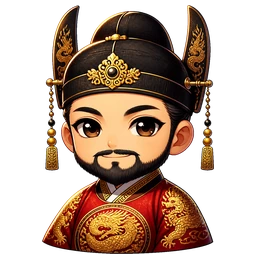
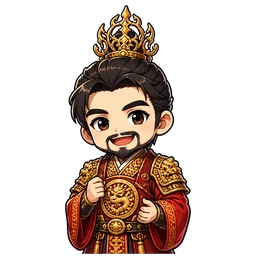
v6.6a 초상 17장 화풍 통일 재제작 (?v=139)

diff --git a/sw.js b/sw.js
@@ -57,6 +57,7 @@
    v6.5 — 등록 쿼리를 ?v=136로 올렸다(도감 상세에서 생년월일·나이·등장연도 줄을 걷어 내고 주둔 성만 남김, 비밀모드 장수 편집기가 원정 화면(z=9000) 위에서 열리도록 관리자 버튼·패널 z-index를 9500·9600으로, 모달·비용·안내 문구 한글 단어 중간 줄바꿈 제거(keep-all), 전투 결산 합계를 표 안 <tfoot>으로 옮겨 열 정렬, v6.4d HUD 수치 폰트 9.5~10px·아군·적군 숫자 사이 금빛 구분선·배속 버튼 터치 영역 확대, 그리고 고증·오류 초상 8명(알천 남성 연결, 무령왕·연남생·조충·올돌골·온조왕·세종대왕·설총 재제작) 256×256 투명 WebP 교체. 내용·밸런스·세이브는 그대로, 캐시 없음).
    v6.5a — 등록 쿼리를 ?v=137로 올렸다(한국 S급 30명 확정 — 도감 '한국' S급을 고구려6·백제4·신라6·고려6·조선5·근대3의 30명으로 고정하고(그동안 백분위 재산정으로 29명으로 흔들렸고 을파소·황희·이황·원효·황진이가 S, 문무왕·장보고·무령왕이 A로 뒤섞였음), S에서 내려온 20명(대무신왕·명림답부·성왕·흑치상지·이사부·김수로·설총·고선지·서희·양규·정몽주·장영실·김종서·권율·곽재우·김시민·정약용·임경업·김응하·홍범도)을 A급으로 내리고 5스탯 합을 중원 A급 수준(340~375)으로 정리, 척준경은 S급 여포급 무력 100으로, 남은 29명도 합 385~410 선으로 다듬어 중원 S급(오 401·위 373·촉 369)과 균형을 맞춤. 중원·군웅 장수 스탯과 세이브는 그대로, 캐시 없음).
    v6.6 — 등록 쿼리를 ?v=138로 올렸다(한국 삼국 왕 10명 초상 고증 수정 — 광개토대왕·근초고왕·김수로·장수왕·진흥왕·문무왕·의자왕의 중국 구슬 면류관·깃털 추장 머리장식을 고구려 절풍·백제 금제 관식·신라·가야 금관과 왕복으로 다시 그리고, 병과 공용 얼굴이던 구수왕·벌휴이사금·내해이사금에 전용 초상을 새로 넣어 256×256 투명 WebP 10장을 v660 매니페스트로 연결(SK.ASSET_V 138). 본편 격자 전장 타격 손맛 — 피격 순간 흰→붉은 히트 플래시와 3~5px 넉백(스프링 복귀), 크리티컬은 더 큰 벙적임·진동, 부대 전멸 시 0.6초 쓰러짐·페이드아웃(캔버스 전용, DOM 없음). 전장 시작 배너 정리 — 인연 알림을 전장 맨 윗줄 한 줄짜리 2개로 줄이고 목표 알약을 그 아래로 내려 아군·적군 부대를 가리지 않게, 조작 안내는 7초 뒤 스스로 사라짐. 내용·밸런스·세이브는 그대로, 캐시 없음).
+   v6.6a — 등록 쿼리를 ?v=139로 올렸다(초상 17장 화풍 통일 재제작 — v6.5·v6.6에서 텍스트 프롬프트만으로 그려 수채화풍으로 튀던 무령왕·연남생·올돌골·온조왕·세종대왕·설총·조충·광개토대왕·근초고왕·김수로·장수왕·의자왕·진흥왕·문무왕·구수왕·벌휴이사금·내해이사금을 모두 v64b/01_yeomong.webp를 --edit 베이스로 다시 생성해 굵은 먹선·2등신 비율·3/4 반신 구도·채색 밀도를 상속, 온조왕·진흥왕·의자왕은 관 고증이 어긋나 재생성, 256×256 완전 투명 RGBA WebP로 교체(SK.ASSET_V 139). 기능·밸런스·세이브는 그대로, 캐시 없음).
    v6.4e — 등록 쿼리를 ?v=135로 올렸다(인물·보물 도감 전체 열람 — 미수집 장수도 실제 초상·이름·병과·세력을 그대로 보여 주고 눌러서 상세를 열게, 미수집 보물도 이름·등급·종류·효과·능력치·획득 경로를 목록과 상세 모두에 그대로 표시(회색·투명 처리 제거, 보유는 ✓ 배지로만 구분). 수집 기록·세이브는 그대로, 캐시 없음).
    v6.4d — 등록 쿼리를 ?v=134로 올렸다(전투 화면 HUD를 왕조 목판·비단 시안 ② 로 업그레이드 — 상단 짙은 목판(#3a2315→#24150c)+금테 머리줄과 알약형 턴 배지, 병력 비율 게이지(금테 홈·알약 깃발), 하단 비단(#f2e2c2)+금테 정보판과 장수 카드(초상 금테·HP/MP/필살기 게이지 시인성), 명령 타일 7종을 누르는 목판(공격 붉은 옻칠·책략 쪽빛·필살기 금빛·군량·자동·턴 종료 숲빛)으로. DOM·ID·이벤트·밸런스·세이브는 그대로, 캐시 없음).
    v6.4c — 등록 쿼리를 ?v=133로 올렸다(5×2 초상 시트 2장에서 잘라 낸 20명 초상(투명 256 WebP)—세력 군주 10인(유표·사섭·마등·도겸·한수·공융·유요·엄백호·왕랑·장로)과 이지란·주창 재제작판(v64b 파일 덮어씀) + B급 8인(육적·손호·관해·고국원왕·이의방·안향·신돈·원균)을 초상 매니페스트(v64c)로 연결, 닫힌 순백 틈까지 투명화. 내용·밸런스·세이브는 그대로, 캐시 없음).

diff --git a/index.html b/index.html
@@ -25,10 +25,10 @@
 <meta name="apple-mobile-web-app-status-bar-style" content="default" />
 <title>삼국지-꼬마영웅 난타전</title>
 <link rel="manifest" href="manifest.webmanifest" />
-<link rel="apple-touch-icon" href="assets/icons/apple-touch-icon.png?v=138" />
+<link rel="apple-touch-icon" href="assets/icons/apple-touch-icon.png?v=139" />
 <meta name="apple-mobile-web-app-title" content="삼국지-꼬마영웅 난타전" />
-<link rel="stylesheet" href="css/game.css?v=138" />
-<link rel="icon" type="image/png" href="assets/icons/icon-192.png?v=138" />
+<link rel="stylesheet" href="css/game.css?v=139" />
+<link rel="icon" type="image/png" href="assets/icons/icon-192.png?v=139" />
 </head>
 <body>
 <!-- ═══ 그림 아이콘 모음 (한자 대신 쓰는 인라인 SVG) ═══ -->
@@ -533,33 +533,33 @@
   window.addEventListener('error', function (e) { window.__errs.push(String((e && e.message) || e)); });
   window.addEventListener('unhandledrejection', function (e) { window.__errs.push('rejection: ' + String(e && e.reason)); });
 </script>
-<script src="js/mapgeo.js?v=138"></script>
-<script src="js/mapmask.js?v=138"></script>
-<script src="js/city_geo.js?v=138"></script>
-<script src="js/data.js?v=138"></script>
-<script src="js/comedy_v64b.js?v=138"></script>
-<script src="js/ult_v582.js?v=138"></script>
-<script src="js/patch_v584.js?v=138"></script>
-<script src="js/bgm.js?v=138"></script>
-<script src="js/sfx.js?v=138"></script>
-<script src="js/app.js?v=138"></script>
-<script src="js/map.js?v=138"></script>
-<script src="js/battle.js?v=138"></script>
-<script src="js/tutorial.js?v=138"></script>
-<script src="js/expedition.js?v=138"></script>
-<script src="js/backguard.js?v=138"></script>
-<script src="js/admin.js?v=138"></script>
+<script src="js/mapgeo.js?v=139"></script>
+<script src="js/mapmask.js?v=139"></script>
+<script src="js/city_geo.js?v=139"></script>
+<script src="js/data.js?v=139"></script>
+<script src="js/comedy_v64b.js?v=139"></script>
+<script src="js/ult_v582.js?v=139"></script>
+<script src="js/patch_v584.js?v=139"></script>
+<script src="js/bgm.js?v=139"></script>
+<script src="js/sfx.js?v=139"></script>
+<script src="js/app.js?v=139"></script>
+<script src="js/map.js?v=139"></script>
+<script src="js/battle.js?v=139"></script>
+<script src="js/tutorial.js?v=139"></script>
+<script src="js/expedition.js?v=139"></script>
+<script src="js/backguard.js?v=139"></script>
+<script src="js/admin.js?v=139"></script>
 <!-- v5.86 — 민첩(병과 agi+무력 보정) 명중·회피 · 운(매력) 상태저항·치명 · 관리자 숨은 스탯
      (전투 계산은 js/battle.js v5.86 블록, 편집 UI는 js/admin.js — admin=1 에서만) -->
 <!-- v5.85 — 관리자 전장맵·천하맵 에디터 (admin=1 에서만 동작, 일반 주소는 아무것도 만들지 않음) -->
 <!-- v5.86a — 전장맵 [💾 내 맵 저장] 슬롯: 여러 새 맵 보관·불러오기·삭제 (같은 관리자 파일 안, admin=1 에서만) -->
 <!-- v5.86b — 커스텀(에디터) 전장은 통이미지 대신 칠한 타일(강물·다리·성벽·성문…)을 그대로 직접 렌더링
      (battle.js v5.86b B.customTilesRender · 정식 12종 전장은 battle_*.webp 그대로) -->
-<script src="js/patch_v585_map_editor.js?v=138"></script>
+<script src="js/patch_v585_map_editor.js?v=139"></script>
 <script>/* v5.50 — 통과(cache-free) 서비스 워커 등록: 크롬 '앱 설치'(주소창 없는 standalone) 요건 */
   if ('serviceWorker' in navigator) {
     window.addEventListener('load', function () {
-      navigator.serviceWorker.register('./sw.js?v=138').catch(function () { /* 설치 환경 아니면 조용히 넘어간다 */ });
+      navigator.serviceWorker.register('./sw.js?v=139').catch(function () { /* 설치 환경 아니면 조용히 넘어간다 */ });
     });
   }
 </script>

diff --git a/js/data.js b/js/data.js
@@ -1394,7 +1394,7 @@ SK.addTopArt = function (manifest) {
   });
 };
 SK.artFor = function (name) { return SK.ART[name] || null; };
-SK.ASSET_V = '138';   /* 초상 파일을 덮어써도 폰이 옛 그림을 들고 있지 않게 — 파일 경로에도 붙인다 */
+SK.ASSET_V = '139';   /* 초상 파일을 덮어써도 폰이 옛 그림을 들고 있지 않게 — 파일 경로에도 붙인다 */
 SK.ptSrc = function (p) {
   if (!p) return 'assets/portraits/v2/gen_bobyung.webp?v=' + SK.ASSET_V;
   /* v5.89b — 전용 초상(v579·a_rank 등)도 같은 파일명으로 덮어썼으므로 경로 끝에 ?v= 를 붙여

diff --git a/README.md b/README.md
@@ -6,6 +6,20 @@
 
 > 이어서 개발할 사람·AI는 **[`HANDOFF.md`](HANDOFF.md)**(인수인계서)와 **[`HANDOFF_PROMPT.md`](HANDOFF_PROMPT.md)**(복붙용 지시서)부터 보세요.
 
+## v6.6a 초상 17장 화풍 통일 재제작 (2026-11-26)
+
+배포는 **`?v=139`** 입니다(`SK.ASSET_V`도 초상 17장이 바뀌었으므로 **139**). 세이브·밸런스·장수 스탯·기능은 그대로이고 **그림만** 바뀌었습니다.
+
+### 문제
+v6.5·v6.6에서 새로 그린 17장(무령왕·연남생·올돌골·온조왕·세종대왕·설총·조충 / 광개토대왕·근초고왕·김수로·장수왕·의자왕·진흥왕·문무왕·구수왕·벌휴이사금·내해이사금)이 텍스트 프롬프트만으로 생성돼 **수채화풍 붓 터치·얇은 선·3~4등신**으로 나왔고, 기존 통일 화풍(`assets/portraits/v64b/`)의 **굵은 먹선·2등신·진한 채색**과 나란히 두면 확실히 튀었습니다.
+
+### 해결 — `v64b/01_yeomong.webp`를 `--edit` 베이스로 상속
+- 17장을 모두 **`images … --edit assets/portraits/v64b/01_yeomong.webp`** 로 생성해 굵은 먹선·큰 머리/작은 상체 2등신·3/4 반신 구도·채색 밀도를 그대로 물려받았습니다(텍스트로만 화풍을 지정하던 방식을 버렸습니다).
+- 흰 바탕으로 뽑은 원본에서 테두리와 이어진 흰 영역만 flood-fill로 지우고 경계 1px 알파를 깎아 **256×256 완전 투명 RGBA WebP**(모서리 알파 0, 44~65% 투명)로 저장했습니다.
+- 고증은 그대로 유지했습니다 — 백제는 **금제 관식**(불꽃 모양 flat openwork 금관 장식), 신라·가야는 **나뭇가지 세움장식+곱은옥 금관**, 고구려는 **금동 조익 투구·절풍**, 조선은 **익선관**, 학자는 **갓·도포**, 올돌골은 **등갑옷·표범가죽·붉은 깃털**(바이킹 뿔투구 없음), 의자왕은 깃털 추장 장식 없음.
+- 눈으로 검수해 **온조왕·진흥왕·의자왕 3장은 관 종류가 어긋나 다시 뽑았습니다**(온조왕·의자왕은 서양식 뾰족 왕관 → 백제 금제 관식, 진흥왕은 뾰족 왕관 → 신라 나뭇가지 금관).
+- 파일 — `assets/portraits/v650/` 7장 · `assets/portraits/v660/` 10장. 매니페스트(`data/v650_art_manifest.json`·`data/v660_art_manifest.json`) 경로는 그대로라 코드 수정 없이 그림만 교체했습니다.
+
 ## v6.6 한국 삼국 왕 초상 고증 수정 · 격자 전장 타격 손맛 · 시작 배너 정리 (2026-11-26)
 
 배포는 **`?v=138`** 입니다(`SK.ASSET_V`도 초상 10장이 바뀌었으므로 **138**). 세이브·밸런스·장수 스탯은 그대로입니다.
